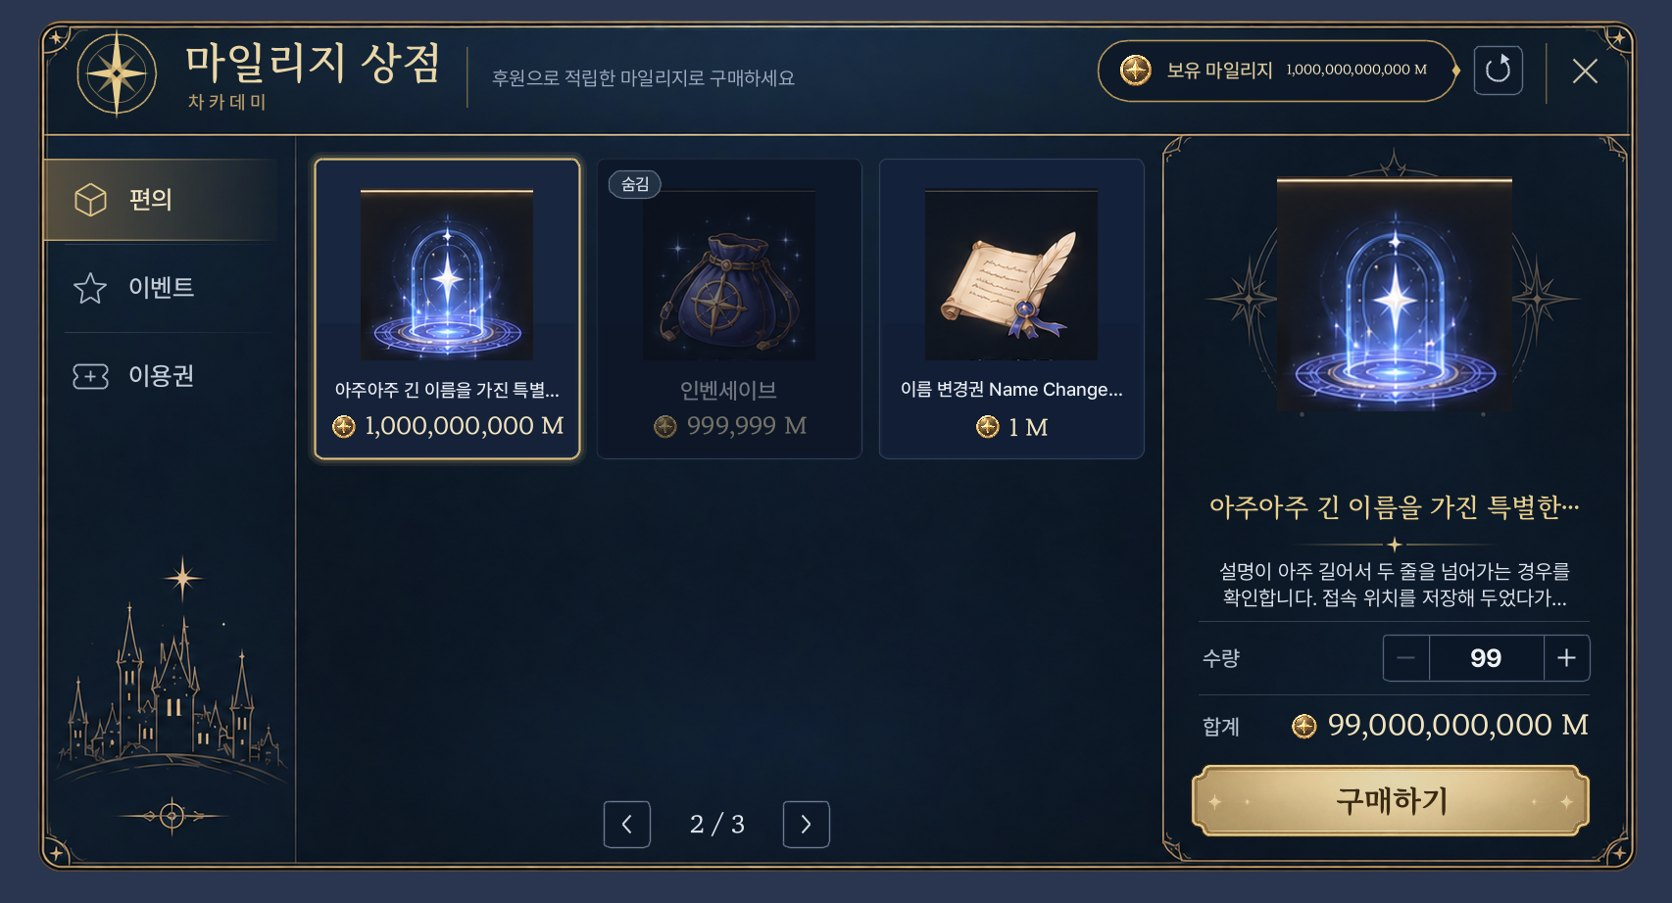
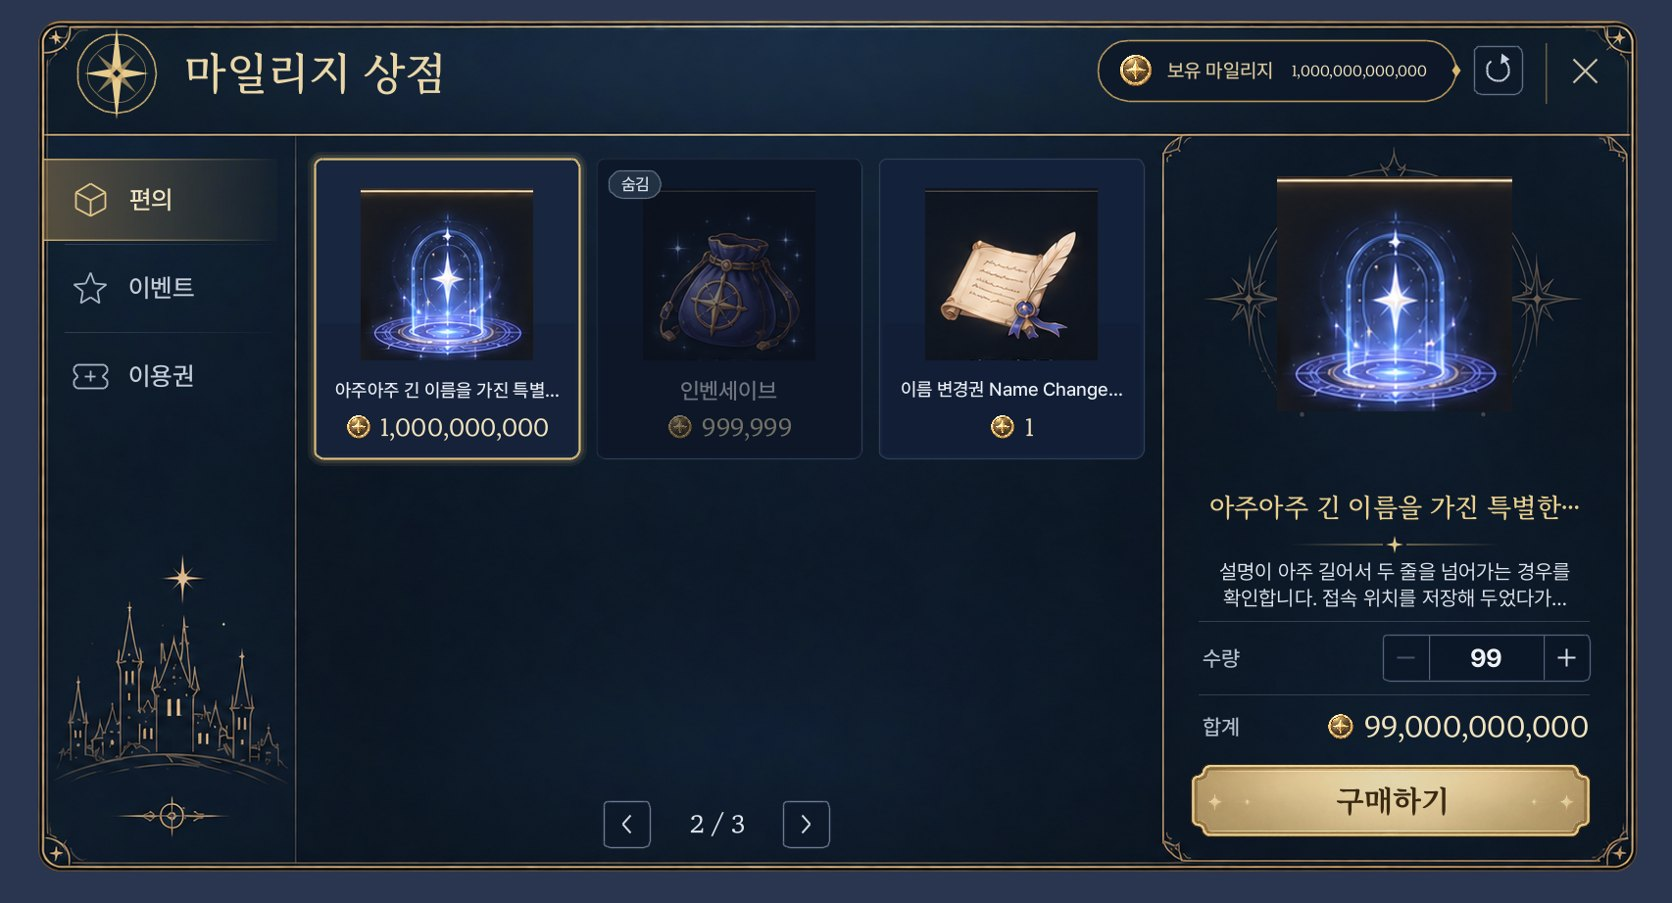
마일리지 상점 2차: 차카데미 부제·안내 문구 삭제(제목만 문양 가운데), M 단위 전부 삭제, 숫자는 쉼표 빼고 잉크 높이로 세로 가운데 정렬(캡슐 위아래 여백 맞춤)
Claude-Session: https://claude.ai/code/session_01XHiPyhHCydVc8jyjuSTA8d

diff --git a/magic-codex-fabric/src/main/java/school/magiccodex/client/MileageView.java b/magic-codex-fabric/src/main/java/school/magiccodex/client/MileageView.java
@@ -25,6 +25,8 @@ final class MileageView {
         /** left x (or center x when centered); cy = vertical centre of the glyphs. */
         void text(String value, float x, float cy, float size, int color, Face face, boolean centered);
         float width(String value, float size, Face face);
+        /** Glyph ink top/bottom relative to the baseline (negative = above). */
+        float[] ink(String value, float size, Face face);
         void gradient(float x, float y, float w, float h, int left, int right);
         void line(float ax, float ay, float bx, float by, float thickness, int color);
         /** Convex polygon (x0,y0,x1,y1,…). */
@@ -55,7 +57,7 @@ final class MileageView {
 
     // ---------------------------------------------------------------- layout (shop_panel.png pixels)
     static final float EMBLEM_X = 119, EMBLEM_Y = 75, EMBLEM_R = 40;
-    static final float TITLE_X = 190, TITLE_Y = 64, TITLE_SIZE = 44, SUB_Y = 104, DIVIDER_X = 476, TAG_X = 502, TAG_Y = 80;
+    static final float TITLE_X = 190, TITLE_Y = 75, TITLE_SIZE = 44;
     static final float CAP_X = 1120, CAP_Y = 41, CAP_W = 366, CAP_H = 62, COIN_X = 1159, COIN_D = 38;
     static final float REFRESH_X = 1504, REFRESH_Y = 47, REFRESH_S = 49, HEAD_DIVIDER_X = 1577, CLOSE_X = 1617, CLOSE_Y = 72;
     static final float TAB_X = 44, TAB_W = 239, TAB_Y = 162, TAB_H = 84, TAB_STEP = 90, TAB_ICON_X = 92, TAB_LABEL_X = 132;
@@ -172,13 +174,9 @@ final class MileageView {
 
     private static void header(Canvas c, Model m) {
         emblem(c, EMBLEM_X, EMBLEM_Y, EMBLEM_R);
-        float titleMax = DIVIDER_X - 22 - TITLE_X;
-        var title = fit(c, m.admin() ? "마일리지 상점 관리" : "마일리지 상점", TITLE_SIZE, Face.TITLE, titleMax, .7f);
+        // title alone, centred on the emblem (owner 2026-10-24: 차카데미 글씨·안내 문구 삭제)
+        var title = fit(c, m.admin() ? "마일리지 상점 관리" : "마일리지 상점", TITLE_SIZE, Face.TITLE, CAP_X - 40 - TITLE_X, .7f);
         c.text(title.text(), TITLE_X, TITLE_Y, title.size(), TITLE_GOLD, Face.TITLE, false);
-        textIn(c, "차 카 데 미", TITLE_X + 2, SUB_Y, 19, SUB_GOLD, Face.LABEL, titleMax, false);
-        c.gradient(DIVIDER_X, 48, 1.5f, 62, 0x88B8975A, 0x88B8975A);
-        textIn(c, m.admin() ? "손에 든 아이템을 등록하고 가격·분류·판매 여부를 정합니다" : "후원으로 적립한 마일리지로 구매하세요",
-                TAG_X, TAG_Y, 20, MUTED, Face.BODY, CAP_X - 26 - TAG_X, false);
 
         // balance capsule (code-rendered per README): label left, amount right, diamond on the right tip
         box(c, CAP_X, CAP_Y, CAP_W, CAP_H, CAP_H / 2, 0xCC0C1727, 0xFFB8975A, 1.6f);
@@ -189,10 +187,10 @@ final class MileageView {
         String label = m.admin() ? "등록 상품" : "보유 마일리지";
         float labelW = Math.min(c.width(label, 20, Face.LABEL), 130);
         textIn(c, label, labelX, cy, 20, 0xFFD9C79A, Face.LABEL, 130, false);
-        String value = m.admin() ? m.productCount() + "개" : m.balance() + " M";
+        String value = m.admin() ? m.productCount() + "개" : m.balance();
         float right = CAP_X + CAP_W - 30, max = right - (labelX + labelW + 18);
         float size = amountSize(c, value, 31, Face.TITLE, max);
-        c.text(value, right - c.width(value, size, Face.TITLE), cy, size, CREAM, Face.TITLE, false);
+        amount(c, value, right - c.width(value, size, Face.TITLE), cy, size, CREAM, false);
 
         boolean hr = in(m.mx(), m.my(), REFRESH_X, REFRESH_Y, REFRESH_S, REFRESH_S);
         box(c, REFRESH_X, REFRESH_Y, REFRESH_S, REFRESH_S, 7, hr ? 0x33E4C47C : 0x660C1727, hr ? GOLD : 0xFF5E6F88, 1.4f);
@@ -325,14 +323,24 @@ final class MileageView {
             textIn(c, "숨김", x + 12 + bw / 2, y + 26, 17, SOFT, Face.LABEL, bw - 12, true);
         }
     }
-    /** coin + "300 M", centred on cx, shrunk (never cut) to max. */
-    static void priceLine(Canvas c, String amount, float cx, float cy, float size, float coin, float max) {
-        String s = amount + " M";
+    /** coin + "300", centred on cx, shrunk (never cut) to max. */
+    static void priceLine(Canvas c, String s, float cx, float cy, float size, float coin, float max) {
         float gap = coin * .3f;
         float sz = amountSize(c, s, size, Face.TITLE, max - coin - gap);
         float w = coin + gap + c.width(s, sz, Face.TITLE), left = cx - w / 2;
         coin(c, left + coin / 2, cy, coin);
-        c.text(s, left + coin + gap, cy, sz, CREAM, Face.TITLE, false);
+        amount(c, s, left + coin + gap, cy, sz, CREAM, false);
+    }
+    /**
+     * Number whose digits are centred on cy. Plain centring uses the ink box, and a comma hangs below the baseline,
+     * which would lift "12,500" above "500" and above the label next to it; so the digits alone decide the height.
+     */
+    static void amount(Canvas c, String s, float x, float cy, float size, int color, boolean centered) {
+        if (s.isEmpty()) return;
+        String digits = s.replace(",", "").replace(".", "");
+        float[] d = c.ink(digits.isEmpty() ? s : digits, size, Face.TITLE), f = c.ink(s, size, Face.TITLE);
+        float baseline = cy - (d[0] + d[1]) / 2;
+        c.text(s, x, baseline + (f[0] + f[1]) / 2, size, color, Face.TITLE, centered);
     }
 
     /** Player detail panel: large icon, name, ornament, description, quantity, total, buy button. */
@@ -353,10 +361,10 @@ final class MileageView {
         c.gradient(ROW_L - 4, 709, ROW_R - ROW_L + 4, 1, 0x40A8B4C8, 0x40A8B4C8);
         textIn(c, "합계", ROW_L, 742, 22, 0xFFB4C0CF, Face.LABEL, 80, false);
         if (!m.total().isEmpty()) {
-            String s = m.total() + " M";
+            String s = m.total();
             float size = amountSize(c, s, 30, Face.TITLE, ROW_R - (ROW_L + 80) - 40);
             float w = c.width(s, size, Face.TITLE);
-            c.text(s, ROW_R - w, 742, size, CREAM, Face.TITLE, false);
+            amount(c, s, ROW_R - w, 742, size, CREAM, false);
             coin(c, ROW_R - w - 10 - 15, 742, 30);
         }
         actionButton(c, m, m.actionLabel(), m.actionEnabled());
@@ -409,8 +417,7 @@ final class MileageView {
                 case 1 -> fieldBox(c, m, "desc", y);
                 case 2 -> {
                     fieldBox(c, m, "price", y);
-                    coin(c, FIELD_X + FIELD_W - 50, cy, 24);
-                    c.text("M", FIELD_X + FIELD_W - 32, cy, 21, CREAM, Face.TITLE, false);
+                    coin(c, FIELD_X + FIELD_W - 24, cy, 24);
                 }
                 case 3 -> { for (int k = 0; k < 3; k++) chip(c, m, k, 3, y, TABS[k], m.editCategory() == k, true); }
                 case 4 -> { chip(c, m, 0, 2, y, "판매 중", m.editEnabled(), true); chip(c, m, 1, 2, y, "숨김", !m.editEnabled(), true); }
@@ -426,7 +433,7 @@ final class MileageView {
     private static void fieldBox(Canvas c, Model m, String key, float y) {
         boolean hover = in(m.mx(), m.my(), FIELD_X, y, FIELD_W, FIELD_H);
         box(c, FIELD_X, y, FIELD_W, FIELD_H, 6, 0x990A1424, hover ? 0xFF8293AC : 0xFF52637C, 1.3f);
-        float right = key.equals("price") ? 66 : 4;
+        float right = key.equals("price") ? 44 : 4;
         c.field(key, FIELD_X + 2, y + 1, FIELD_W - right - 2, FIELD_H - 2);
     }
     static float chipX(int index, int count) { float gap = 8, w = (FIELD_W - gap * (count - 1)) / count; return FIELD_X + (w + gap) * index; }

diff --git a/magic-codex-paper/src/main/java/school/magiccodex/paper/MileageBridge.java b/magic-codex-paper/src/main/java/school/magiccodex/paper/MileageBridge.java
@@ -190,7 +190,7 @@ final class MileageBridge implements PluginMessageListener, Listener {
             if (mail == null) throw new IllegalStateException("mail service missing");
             String title = cut(o.title(), 70) + " 구매";
             sent = mail.sendSystem("mileage:" + o.id(), o.owner(), title,
-                    "마일리지 상점에서 " + o.quantity() + "개를 구매했어요. (" + MileageProtocol.amount(o.total()) + " M 사용)", stacks(o));
+                    "마일리지 상점에서 " + o.quantity() + "개를 구매했어요. (마일리지 " + MileageProtocol.amount(o.total()) + " 사용)", stacks(o));
         } catch (RuntimeException e) {
             delivering.remove(o.id());
             plugin.getLogger().log(Level.WARNING, "Mileage mail failed for order " + o.id() + " (will retry)", e);
@@ -290,7 +290,7 @@ final class MileageBridge implements PluginMessageListener, Listener {
         var root = CmdKit.literal("마일리지")
                 .then(CmdKit.literal("보기").executes(CmdKit.run(ctx -> {
                     UUID id = ChacaApi.target(ctx); var to = CmdKit.sender(ctx);
-                    work(() -> store.balance(id), v -> { cached.computeIfPresent(id, (k, o) -> v); CmdKit.lines(to, List.of("── " + CmdKit.name(id) + " 마일리지 ──", MileageProtocol.amount(v) + " M")); },
+                    work(() -> store.balance(id), v -> { cached.computeIfPresent(id, (k, o) -> v); CmdKit.lines(to, List.of("── " + CmdKit.name(id) + " 마일리지 ──", MileageProtocol.amount(v))); },
                             m -> CmdKit.userFail(to, m));
                 })))
                 .then(CmdKit.literal("기록").executes(CmdKit.run(ctx -> {
@@ -299,7 +299,7 @@ final class MileageBridge implements PluginMessageListener, Listener {
                         var lines = new ArrayList<String>();
                         lines.add("── " + CmdKit.name(id) + " 마일리지 구매 기록 (최근 10건) ──");
                         if (list.isEmpty()) lines.add("기록이 없어요");
-                        for (var o : list) lines.add(QuestBridge.timeText(o.created()) + " | " + o.title() + " ×" + o.quantity() + " | " + MileageProtocol.amount(o.total()) + " M | "
+                        for (var o : list) lines.add(QuestBridge.timeText(o.created()) + " | " + o.title() + " ×" + o.quantity() + " | " + "마일리지 " + MileageProtocol.amount(o.total()) + " | "
                                 + (o.state().equals("done") ? "우편 보냄" : "우편 대기(자동 재전송)"));
                         CmdKit.lines(to, lines);
                     }, m -> CmdKit.userFail(to, m));
@@ -307,7 +307,7 @@ final class MileageBridge implements PluginMessageListener, Listener {
         for (String change : AdminCommandRules.CHANGES)
             root.then(CmdKit.literal(change).then(CmdKit.argument("값", LongArgumentType.longArg(0, MileageProtocol.MAX_BALANCE)).executes(CmdKit.run(ctx -> changeBalance(ctx, change)))));
         ChacaApi.branch(plugin, ChacaApi.유저관리, root, "마일리지 보기·설정·추가·빼기·구매 기록", "마일리지 보기");
-        ChacaApi.summary(plugin, "마일리지", id -> { Long v = cached.get(id); return v == null ? "" : MileageProtocol.amount(v) + " M"; });
+        ChacaApi.summary(plugin, "마일리지", id -> { Long v = cached.get(id); return v == null ? "" : MileageProtocol.amount(v); });
     }
     private void changeBalance(CommandContext<CommandSourceStack> ctx, String change) throws com.mojang.brigadier.exceptions.CommandSyntaxException {
         UUID id = ChacaApi.target(ctx);
@@ -316,7 +316,7 @@ final class MileageBridge implements PluginMessageListener, Listener {
         work(() -> store.change(id, change, value), v -> {
             plugin.getLogger().info("MILEAGE ADMIN admin=" + to.getName() + " player=" + id + " action=" + change + " value=" + value + " before=" + v[0] + " after=" + v[1]);
             long delta = v[1] - v[0];
-            CmdKit.ok(to, CmdKit.name(id) + " 님 마일리지 " + MileageProtocol.amount(v[1]) + " M (" + (delta >= 0 ? "+" : "") + MileageProtocol.amount(delta) + ")");
+            CmdKit.ok(to, CmdKit.name(id) + " 님 마일리지 " + MileageProtocol.amount(v[1]) + " (" + (delta >= 0 ? "+" : "") + MileageProtocol.amount(delta) + ")");
             var p = Bukkit.getPlayer(id);
             if (p != null) { cached.put(id, v[1]); if (sessions.containsKey(id)) push(p, MileageProtocol.KIND_STATE, "", ""); }
         }, m -> CmdKit.userFail(to, m));

diff --git a/magic-codex-paper/src/main/java/school/magiccodex/paper/MileageStore.java b/magic-codex-paper/src/main/java/school/magiccodex/paper/MileageStore.java
@@ -88,8 +88,8 @@ final class MileageStore implements AutoCloseable {
                 case "빼기" -> before - value;
                 default -> throw new IllegalArgumentException("mode");
             };
-            if (after < 0) throw new IllegalStateException("마일리지가 " + MileageProtocol.amount(before) + " M라서 그만큼 뺄 수 없어요");
-            if (after > MileageProtocol.MAX_BALANCE) throw new IllegalStateException("마일리지는 최대 " + MileageProtocol.amount(MileageProtocol.MAX_BALANCE) + " M까지예요");
+            if (after < 0) throw new IllegalStateException("마일리지가 " + MileageProtocol.amount(before) + "라서 그만큼 뺄 수 없어요");
+            if (after > MileageProtocol.MAX_BALANCE) throw new IllegalStateException("마일리지는 최대 " + MileageProtocol.amount(MileageProtocol.MAX_BALANCE) + "까지예요");
             put(c, owner, after);
             return new long[]{before, after};
         });

diff --git a/magic-codex-fabric/src/main/java/school/magiccodex/client/MileageScreen.java b/magic-codex-fabric/src/main/java/school/magiccodex/client/MileageScreen.java
@@ -163,7 +163,7 @@ public final class MileageScreen extends SocialScreen {
         sound(1.1f, .16f);
         busy = true; busyAt = Util.getMeasuringTimeMs(); pending = op;
         ItemStack icon = icons.getOrDefault(p.id(), ItemStack.EMPTY).copy();
-        String title = p.name() + " ×" + n + " 구매 완료", body = "우편함으로 보냈어요 · " + MileageProtocol.amount(total) + " M 사용";
+        String title = p.name() + " ×" + n + " 구매 완료", body = "우편함으로 보냈어요 · 마일리지 " + MileageProtocol.amount(total) + " 사용";
         RECEIPTS.put(op, () -> SharedNotifications.item("mileage:" + op, title, body, icon));
         if (RECEIPTS.size() > 32) RECEIPTS.remove(RECEIPTS.keySet().iterator().next());
     }

diff --git a/magic-codex-fabric/src/main/java/school/magiccodex/client/CodexTextRasterizer.java b/magic-codex-fabric/src/main/java/school/magiccodex/client/CodexTextRasterizer.java
@@ -17,6 +17,13 @@ public final class CodexTextRasterizer {
         return text.isEmpty() ? 0 : new TextLayout(text, font.deriveFont(size), CONTEXT).getAdvance();
     }
 
+    /** Glyph ink top/bottom relative to the baseline (negative = above), for lining up text of different sizes. */
+    public static float[] ink(Font font, String text, float size) {
+        if (text.isEmpty()) return new float[]{0, 0};
+        var r = new TextLayout(text, font.deriveFont(size), CONTEXT).getBounds();
+        return new float[]{(float) r.getMinY(), (float) r.getMaxY()};
+    }
+
     public static BufferedImage rasterize(Font font, String text, float pixelSize) {
         return rasterize(font,text,pixelSize,false);
     }

diff --git a/magic-codex-fabric/src/main/java/school/magiccodex/client/CodexTypography.java b/magic-codex-fabric/src/main/java/school/magiccodex/client/CodexTypography.java
@@ -65,6 +65,9 @@ public final class CodexTypography implements AutoCloseable {
                 key -> CodexTextRasterizer.width(fonts.get(key.face()), value, size));
     }
 
+    /** Ink top/bottom of the text relative to its baseline (see {@link CodexTextRasterizer#ink}). */
+    public float[] ink(String value, float size, Identifier face) { return CodexTextRasterizer.ink(fonts.get(face.getPath()), value, size); }
+
     public void draw(DrawContext context, String value, float x, float y, float size, int color,
                      Identifier face, boolean centered) {
         draw(context,value,x,y,size,color,face,centered,false);

diff --git a/magic-codex-fabric/src/test/java/school/magiccodex/client/MileageViewTest.java b/magic-codex-fabric/src/test/java/school/magiccodex/client/MileageViewTest.java
@@ -15,6 +15,7 @@ class MileageViewTest {
             float w = width(s, size, f); float left = centered ? x - w / 2 : x; texts.add(new float[]{left, left + w});
         }
         public float width(String s, float size, MileageView.Face f) { return s.length() * size * .9f; }
+        public float[] ink(String s, float size, MileageView.Face f) { return new float[]{-size * .7f, s.contains(",") ? size * .15f : 0}; }
         public void gradient(float x, float y, float w, float h, int l, int r) {}
         public void line(float ax, float ay, float bx, float by, float t, int c) {}
         public void polygon(float[] p, int c) {}

diff --git a/docs/handoff/CLAUDE_MILEAGE_SHOP_20261024.md b/docs/handoff/CLAUDE_MILEAGE_SHOP_20261024.md
@@ -38,7 +38,7 @@
 - 테이블(MariaDB): `codex_mileage_balance(owner, amount, updated)`, `codex_mileage_products(id, category, name, description, price, enabled, sort, payload)`, `codex_mileage_orders(id, owner, request_key UNIQUE, product, quantity, total, payload, title, state, created)`. 처음 켤 때 `CREATE TABLE IF NOT EXISTS`. 필요한 권한: SELECT/INSERT/UPDATE/DELETE/CREATE.
 - 구매: 한 트랜잭션에서 잔액 잠금(MariaDB `FOR UPDATE`) → 판매 중·가격 일치(`expectedPrice`)·잔액 확인 → 차감 → 주문 `paid` 기록. 같은 `request_key`(= 유저UUID:operation)를 다시 보내면 첫 주문을 돌려주고 두 번 빼지 않는다.
 - 그 다음 메인 스레드에서 `MailService.sendSystem("mileage:<주문ID>", …)` → 저장 확인되면 주문 `done`. 우편 source_key가 UNIQUE라 **`paid` 주문은 언제 다시 보내도 우편이 두 통 생기지 않는다.** 그래서 접속할 때, 켠 뒤 15초, 이후 5분마다 `paid` 주문을 다시 보낸다(서버 상관없음).
-- 우편: 제목 「<상품 이름> 구매」, 본문 「마일리지 상점에서 N개를 구매했어요. (X M 사용)」, 첨부 = 상품 아이템 × 수량(최대 9묶음 → 한 번에 최대 `min(99, 최대 스택×9)`개). 주문에는 **구매 순간의 아이템 바이트**를 따로 저장하므로 나중에 상품을 고쳐도 이미 산 것은 그대로.
+- 우편: 제목 「<상품 이름> 구매」, 본문 「마일리지 상점에서 N개를 구매했어요. (마일리지 X 사용)」, 첨부 = 상품 아이템 × 수량(최대 9묶음 → 한 번에 최대 `min(99, 최대 스택×9)`개). 주문에는 **구매 순간의 아이템 바이트**를 따로 저장하므로 나중에 상품을 고쳐도 이미 산 것은 그대로.
 - 등록 아이템은 손에 든 것의 **1개짜리 복사본**(NBT·PDC·ItemsAdder 데이터 그대로, 손에서 빼지 않음).
 
 ## 3. 명령어
@@ -62,7 +62,7 @@
 - **넘침 방지**: 모든 글자는 `MileageView.fit`(82%까지 줄인 뒤 「…」), 설명은 2줄 줄바꿈 + 「…」, 금액은 자르지 않고 45%까지 줄임. 테스트가 폭을 검사함. 긴 이름·1조 잔액 미리보기 `p_long.jpg`.
 - 상점: 탭 3개(편의/이벤트/이용권), 한 쪽 6칸(3×2), 쪽 넘기기 + 휠. 카드 선택 → 오른쪽 상세(큰 아이콘·이름·장식선·설명·수량·합계·구매하기). 수량 칸 직접 입력(숫자 2자리), 최대 = min(99, 스택×9, 잔액/가격). 아이콘에 마우스 → 기존 아이템 툴팁.
 - 관리 창(같은 패널): 머리 「마일리지 상점 관리」, 캡슐 「등록 상품 N개」, 카드 끝에 「새 상품 추가」 카드(손에 든 아이템), 숨긴 상품은 어둡게 + 「숨김」. 오른쪽: 이름·설명·가격 입력칸, 분류 3칸, 판매 중/숨김, 순서 앞으로/뒤로(즉시), 손에 든 것으로 교체, 삭제(3초 안에 두 번), 저장하기/추가하기. Tab 키로 이름→설명→가격.
-- 알림: 구매 성공 = 공용 알림 카드(아이템 아이콘) 「<이름> ×N 구매 완료 / 우편함으로 보냈어요 · X M 사용」. 실패·관리 결과는 같은 카드(경고/정보). 창 안에 토스트를 띄우지 않음(카드와 겹치지 않게).
+- 알림: 구매 성공 = 공용 알림 카드(아이템 아이콘) 「<이름> ×N 구매 완료 / 우편함으로 보냈어요 · 마일리지 X 사용」. 실패·관리 결과는 같은 카드(경고/정보). 창 안에 토스트를 띄우지 않음(카드와 겹치지 않게).
 - 메뉴: 상단 메뉴 「마일리지샵」 → 패킷으로 바로 엶. 서버에 이 기능이 없으면 `/마일리지상점` 명령으로 대신 보냄.
 
 ## 5. 실게임에서 볼 것
@@ -87,3 +87,9 @@
 - Bridge(학교·야생) + 클라 모드 같이. 서버 재시작 필요(새 채널·명령). 런처에 새 텍스처 3장 포함되는지 확인.
 - 학교·야생이 같은 잔액을 쓰려면 두 서버의 `shop-mailbox-database.properties`가 같은 MariaDB여야 함(상점·우편과 같은 조건).
 - 예전 메뉴가 보내던 `/캐시샵` 명령은 이제 쓰지 않음(다른 플러그인이 쓰고 있었다면 그대로 남음).
+
+## 8. 2차 수정 (오너 피드백 2026-10-24)
+
+- 머리: 「차 카 데 미」 부제, 안내 문구(「후원으로 적립한 마일리지로 구매하세요」 / 관리 창 안내)와 그 앞 세로 구분선 삭제. 제목만 나침반 문양 세로 가운데(y75)에 맞춤.
+- 「M」 단위 전부 삭제: 잔액 캡슐, 카드 가격, 합계, 관리 창 가격칸(코인 아이콘만). 알림·우편·명령 문구도 「마일리지 300」 식으로.
+- 숫자 세로 정렬: 쉼표가 기준선 아래로 내려가 「12,500」이 글자 상자 가운데 정렬로는 위로 떠 보이던 것을, **숫자 부분만의 잉크 높이**로 가운데 맞춤(`MileageView.amount`). 캡슐 안 코인·「보유 마일리지」·숫자의 위아래 여백이 같음. 이를 위해 `CodexTextRasterizer.ink` / `CodexTypography.ink`(글자 잉크 위·아래, 기준선 기준) 추가.
